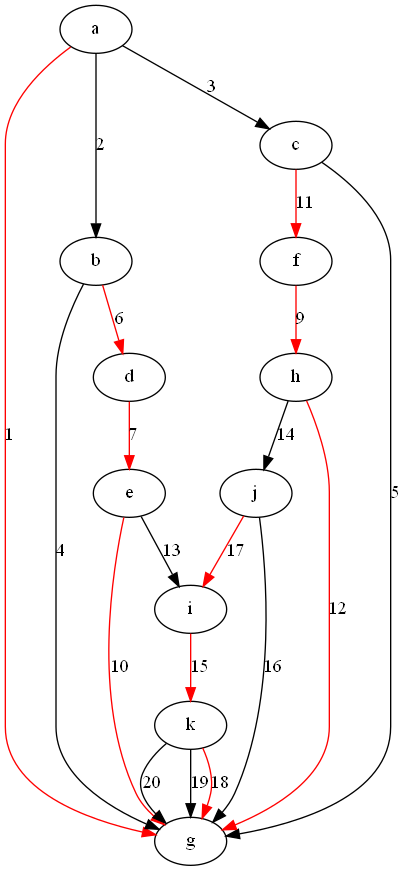
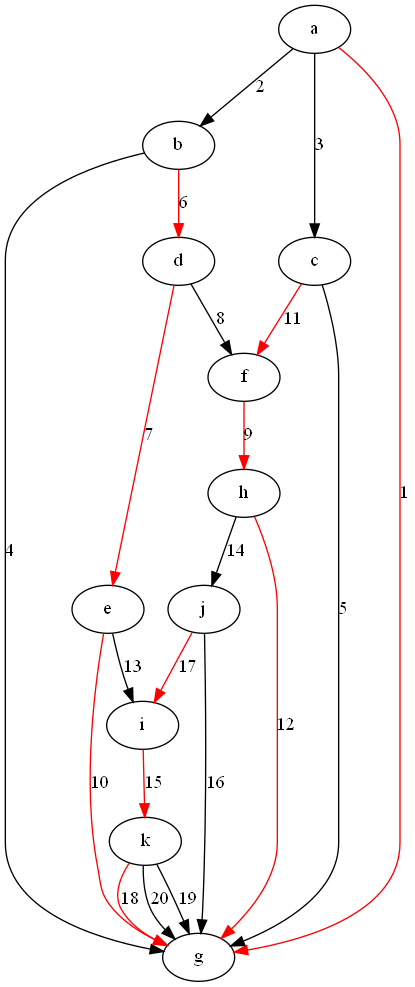
fix edge 8

diff --git a/test.py b/test.py
@@ -7,7 +7,7 @@ g = nx.MultiDiGraph()
 
 g.add_nodes_from(["a", "b", "c", "g", "d", "e", "f", "h", "i", "j", "k"])
 g.add_edges_from([("a", "b"),("b", "g"),("a", "c"),("c", "g"),("a", "g"),("b", "d"),("d", "e"),("e", "g"),("c", "f"),
-                  ("f", "h"),("h", "g"),("e", "i"),("h", "j"),("i", "k"),("j", "g"),("j", "i"),("k", "g"),("k", "g"),
+                  ("f", "h"),("h", "g"),("e", "i"),("d","f"),("h", "j"),("i", "k"),("j", "g"),("j", "i"),("k", "g"),("k", "g"),
                   ("k", "g")])
 
 edge_labels={
@@ -21,6 +21,7 @@ edge_labels={
     ("e", "g"): ["10"],
     ("c", "f"): ["11"],
     ("f", "h"): ["9"],
+    ("d", "f"): ["8"],
     ("h", "g"): ["12"],
     ("e", "i"): ["13"],
     ("h", "j"): ["14"],
